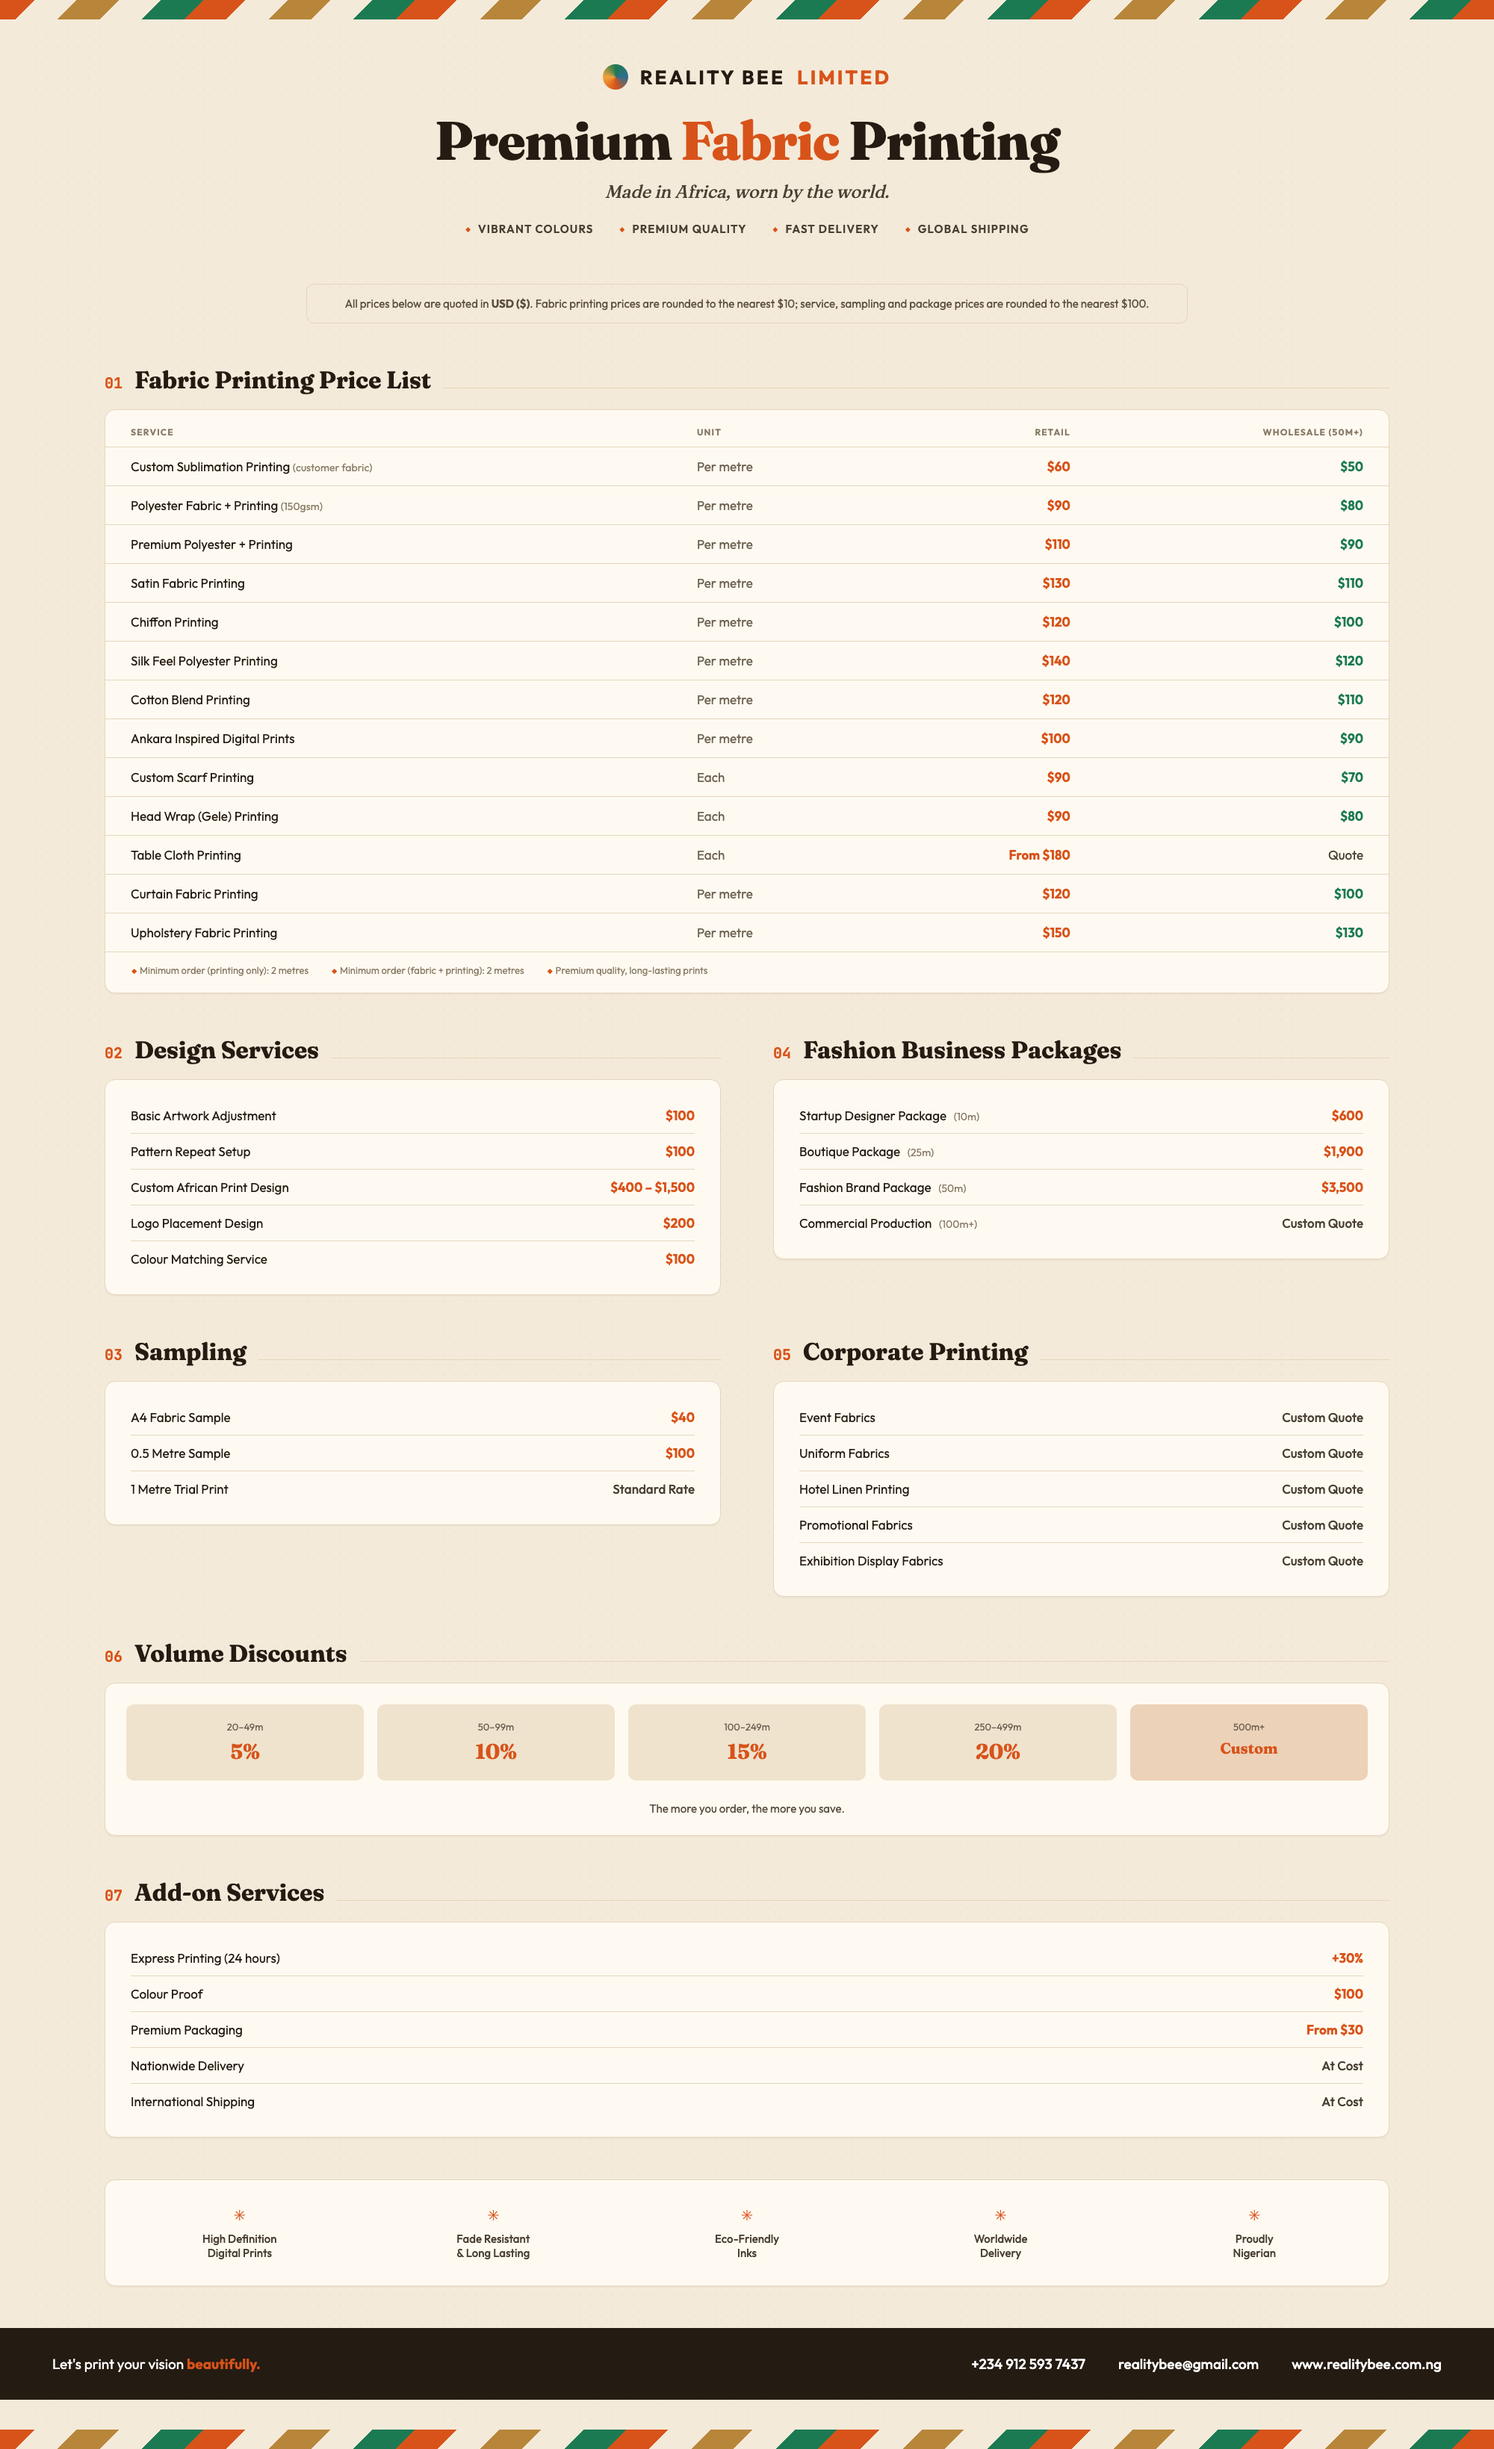
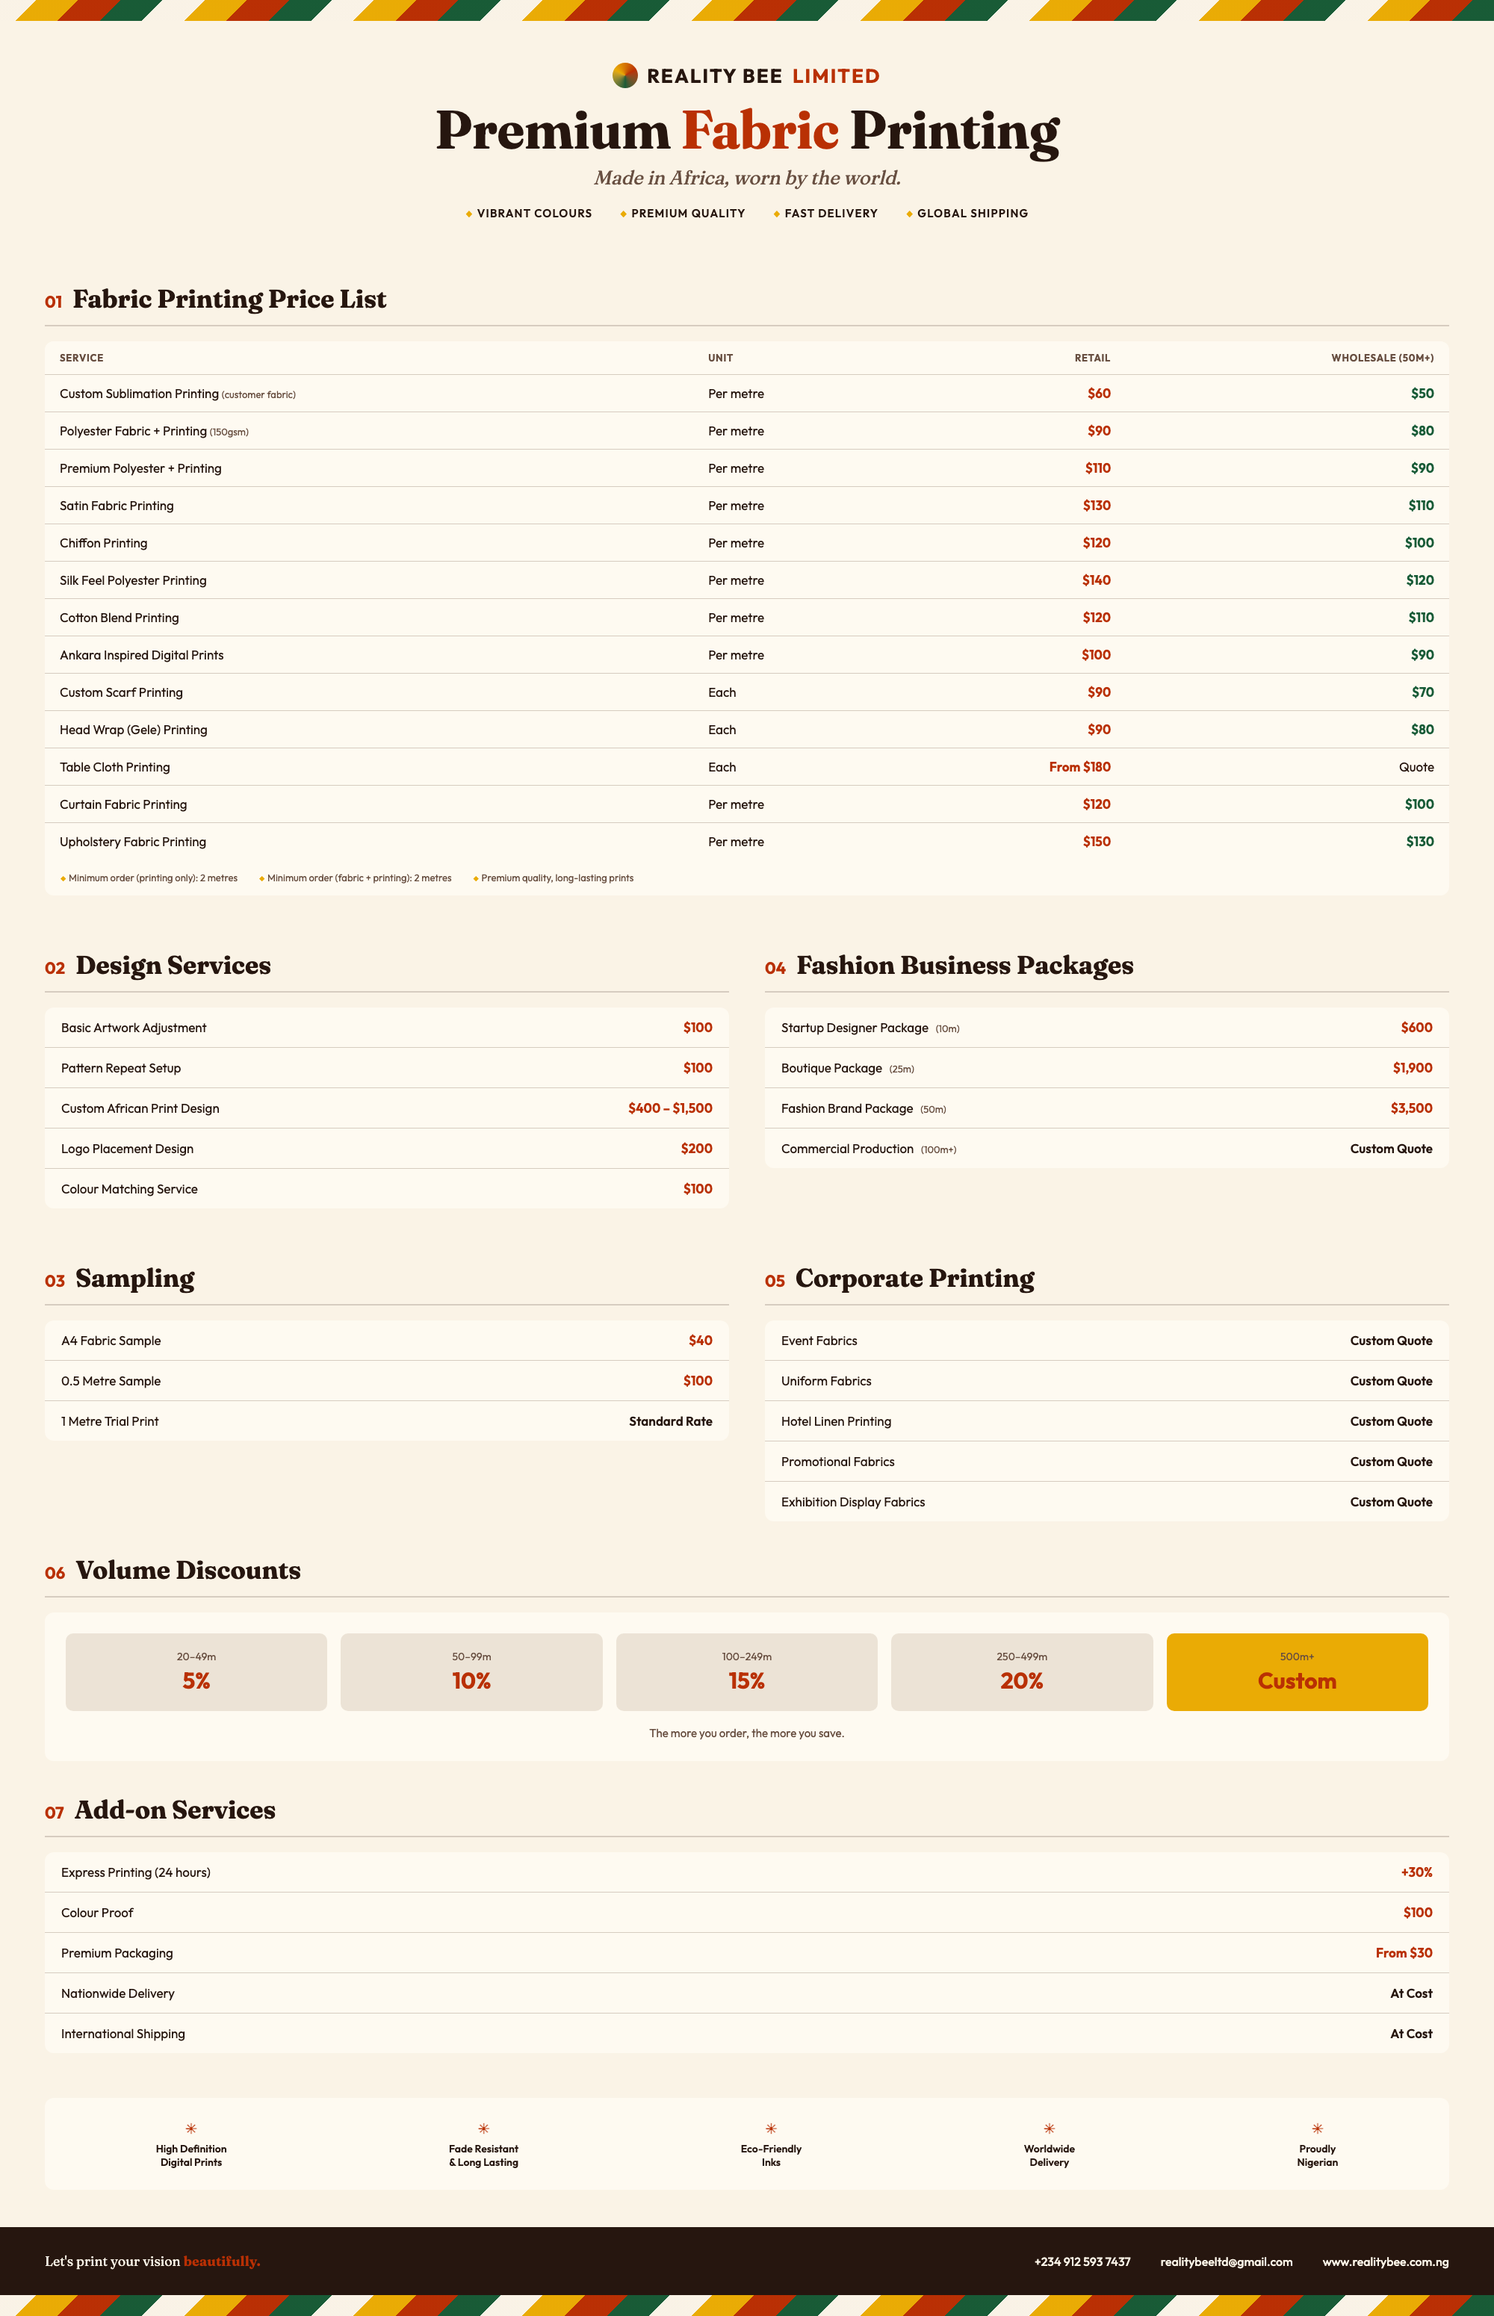
Update UI

diff --git a/src/routes/fabric-printing.tsx b/src/routes/fabric-printing.tsx
@@ -277,7 +277,7 @@ function FabricPrintingPage() {
           </div>
           <div className="flex items-center gap-4 text-xs text-muted-foreground">
             <span className="flex items-center gap-1">
-              <Ruler className="h-4 w-4 text-primary" /> Min. order: 20 metres
+              <Ruler className="h-4 w-4 text-primary" /> Min. order: 10 metres
             </span>
             <span className="flex items-center gap-1">
               <Award className="h-4 w-4 text-primary" /> Premium quality
